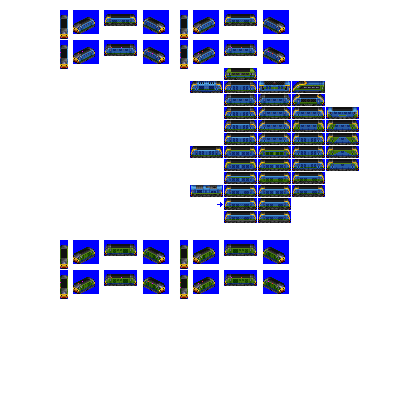
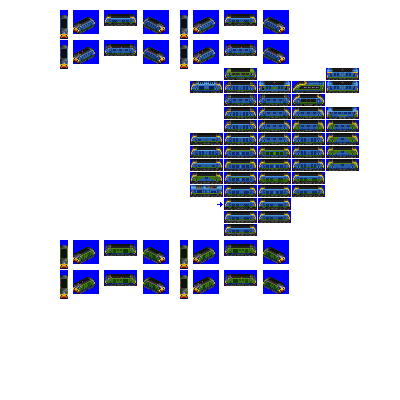
Change: replace Gosling Blast with Triton, Gosling Blast may or may not return as high-HP electric in future

diff --git a/src/vehicles/triton.py b/src/vehicles/triton.py
@@ -1,20 +1,19 @@
 from train import EngineConsist, ElectricEngineUnit
 
-# deprecated?
 
 def main(roster_id):
     consist = EngineConsist(roster_id=roster_id,
-                            id='gosling_blast',
-                            base_numeric_id=2960,
-                            name='Gosling Blast',
+                            id='triton',
+                            base_numeric_id=3910,
+                            name='Triton',
                             role='heavy_freight_2',
-                            power=8500, # high power?
+                            power=6850, # relatively tiny jump from gen 5, compared to gen 4->5, very high-powered single unit engines are unbalanced for Pony
                             # dibble for game balance, assume super-slip control
                             tractive_effort_coefficient=0.4,
                             random_reverse=True,
                             gen=6,
                             pantograph_type='z-shaped-double',
-                            intro_date_offset=2,  # introduce later than gen epoch by design
+                            intro_date_offset=7,  # introduce later than gen epoch by design
                             sprites_complete=False)
 
     consist.add_unit(type=ElectricEngineUnit,

diff --git a/src/rosters/pony.py b/src/rosters/pony.py
@@ -29,7 +29,7 @@ from vehicles import fury
 from vehicles import geronimo
 from vehicles import girt_licker
 from vehicles import goliath
-from vehicles import gosling_blast
+#from vehicles import gosling_blast # dropped?
 from vehicles import gowsty
 from vehicles import grid
 from vehicles import griffon
@@ -87,6 +87,7 @@ from vehicles import super_shoebox
 from vehicles import tencendur
 from vehicles import tideway
 from vehicles import tin_rocket
+from vehicles import triton
 from vehicles import tyburn
 from vehicles import ultra_shoebox
 from vehicles import upcountry
@@ -182,7 +183,8 @@ def main(disabled=False):
                                flindermouse,
                                peasweep,
                                flanders_storm,
-                               gosling_blast,
+                               triton,
+                               #gosling_blast, # dropped?
                                # joker engines / snowploughs
                                grub,
                                gronk,
